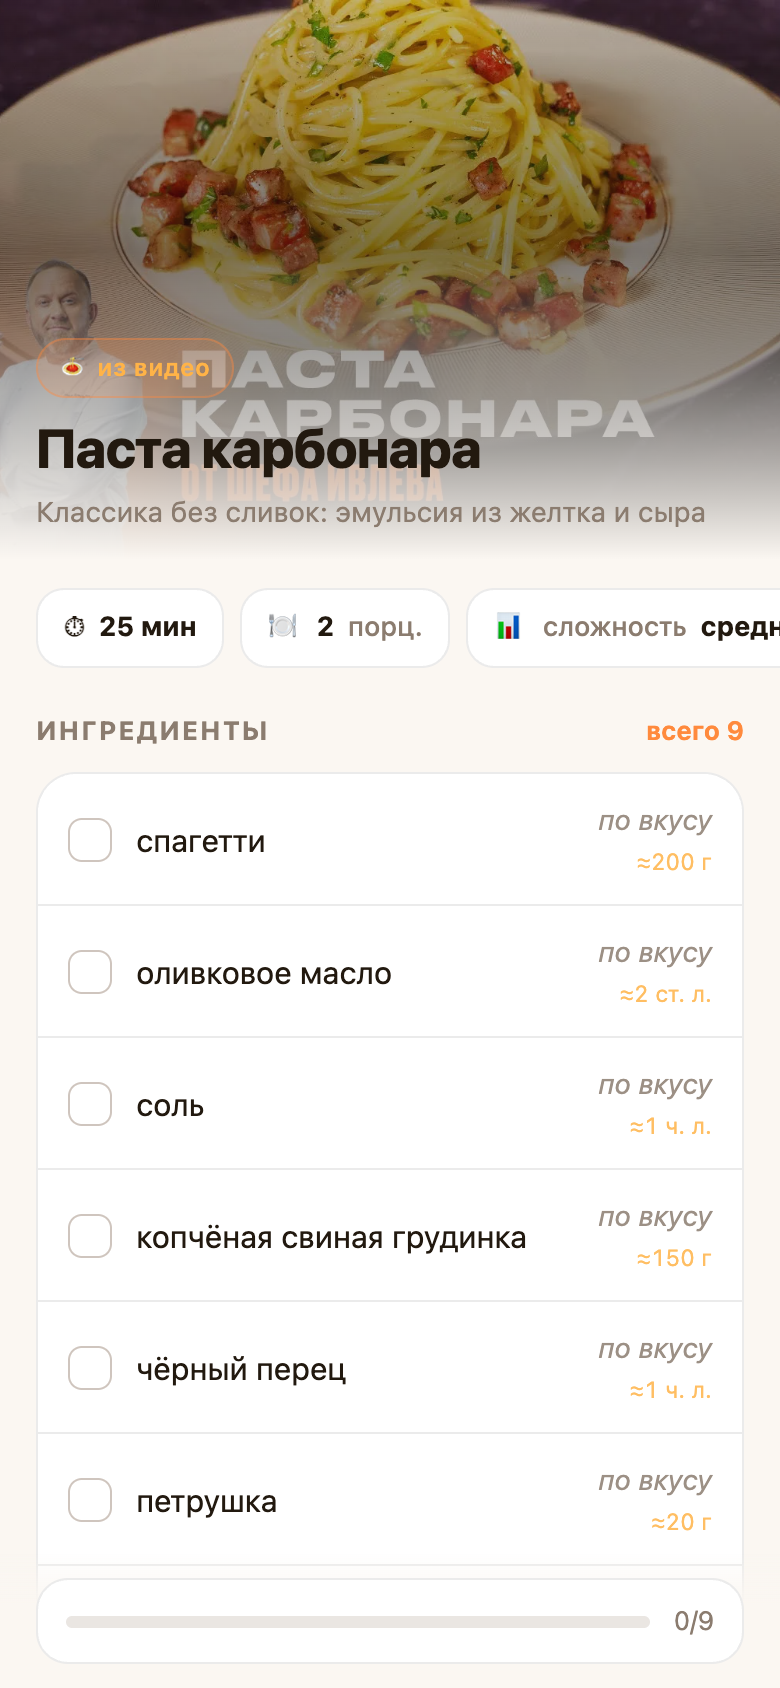
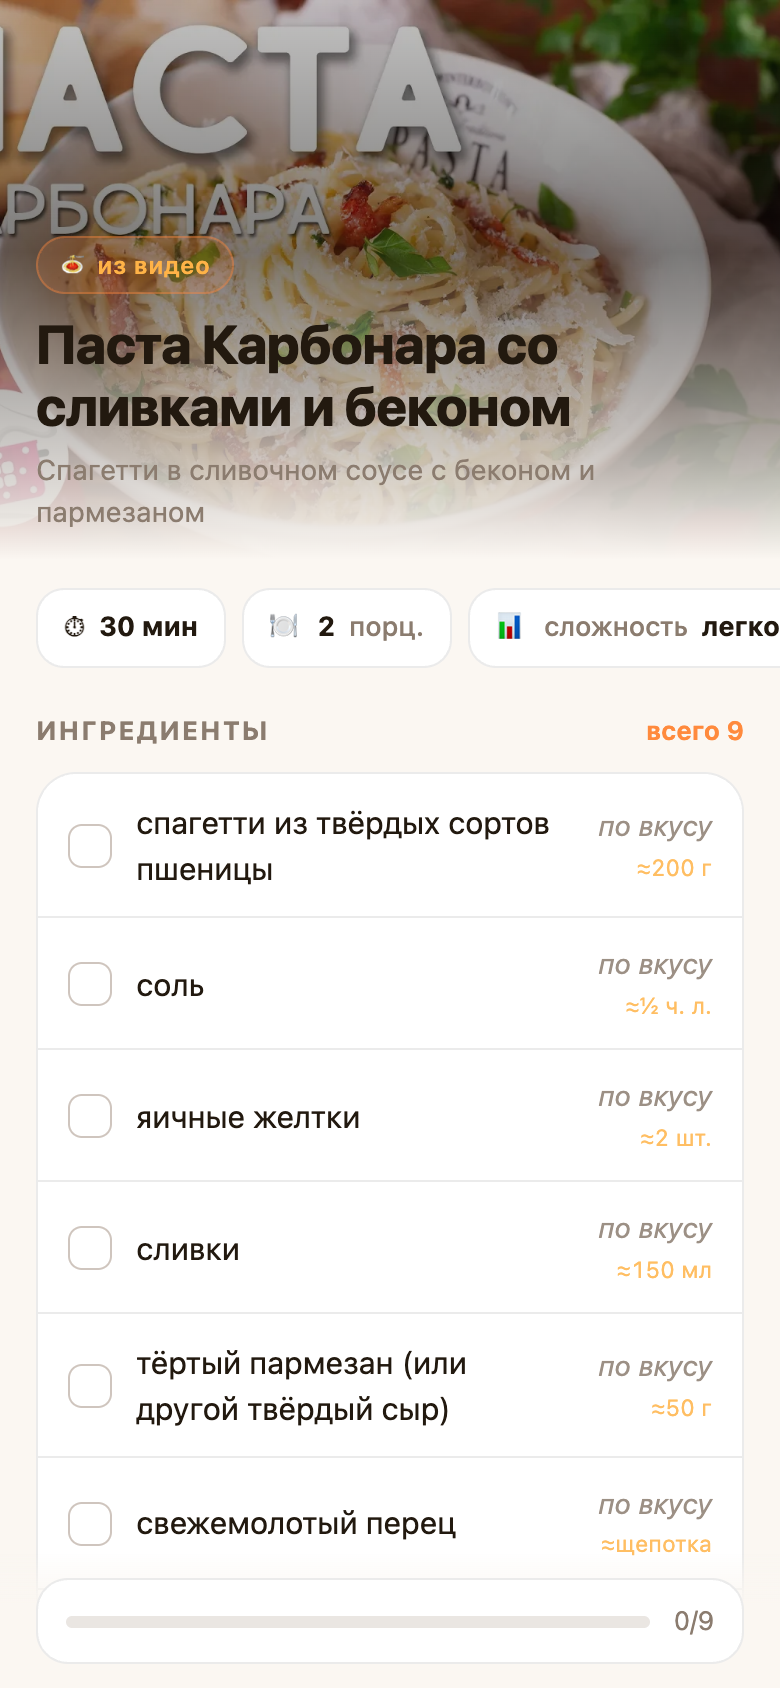
tunnel + one-command run, fix recipe path in webapp

diff --git a/app/webapp/index.html b/app/webapp/index.html
@@ -251,11 +251,13 @@ function updateBar() {
   $('#ingCount').textContent = done ? `готово ${done}` : `всего ${total}`;
 }
 
-/* загрузка данных: сначала с сервера, потом из встроенного JSON (демо без сети) */
+/* загрузка данных: id берём из адреса /r/<id>, иначе — последний рецепт */
 (async () => {
+  const m = location.pathname.match(/^\/r\/([\w-]+)/);
+  const src = m ? `/r/${m[1]}/recipe.json` : '/recipe.json';
   try {
-    const res = await fetch('./recipe.json', { cache: 'no-store' });
-    if (!res.ok) throw new Error(res.status);
+    const res = await fetch(src, { cache: 'no-store' });
+    if (!res.ok) throw new Error('HTTP ' + res.status);
     render(await res.json());
   } catch (err) {
     if (window.__DEMO_RECIPE__) return render(window.__DEMO_RECIPE__);

diff --git a/app/bot.py b/app/bot.py
@@ -28,7 +28,7 @@ from aiogram.types import (
     WebAppInfo,
 )
 
-API = os.getenv("RECIPE_API", "http://127.0.0.1:8787")     # локальный сервер пайплайна
+API = os.getenv("RECIPE_API", "http://127.0.0.1:8891")     # локальный сервер пайплайна
 WEBAPP_URL = os.getenv("WEBAPP_URL", "").rstrip("/")
 
 LINK_RE = re.compile(

diff --git a/app/server.py b/app/server.py
@@ -123,7 +123,7 @@ class Handler(BaseHTTPRequestHandler):
 
 def main():
     ap = argparse.ArgumentParser()
-    ap.add_argument("--port", type=int, default=8787)
+    ap.add_argument("--port", type=int, default=8891)
     ap.add_argument("--host", default="127.0.0.1")
     args = ap.parse_args()
 

diff --git a/README.md b/README.md
@@ -12,24 +12,20 @@
 
 ```bash
 cd ~/workspace/recipe-bot
-
-# 1. сервер (в нём весь пайплайн) — держать открытым
-~/.hermes/installs/702cdcf0f0d70170/environments/ed360d58e0d04daabcb8285d84e5c396/venv/bin/python app/server.py
-
-# 2. бот (второе окно терминала)
-.venv/bin/python app/bot.py
+./run.sh
 ```
 
-Мини-апп без Телеграма: открой http://127.0.0.1:8787
+Одна команда поднимает всё: сервер, туннель и бота. Ctrl+C — остановить всё разом.
+
+Мини-апп без Телеграма: открой http://127.0.0.1:8891
 
 ## Что нужно от тебя
 
-1. **Токен бота.** @BotFather → `/newbot` → скопировать токен в `.env` как `TELEGRAM_BOT_TOKEN=...`
-2. **HTTPS.** Мини-апп в Телеграме открывается только по https, локальный http он не пустит.
-   Нужен туннель: `brew install cloudflared` (~30 МБ), потом
-   `cloudflared tunnel --url http://127.0.0.1:8787` — он выдаст `https://что-то.trycloudflare.com`,
-   этот адрес идёт в `.env` как `WEBAPP_URL`.
-   Без туннеля бот тоже работает — просто присылает рецепт текстом, без красивой карточки.
+1. **Токен бота.** @BotFather → `/newbot` → токен в `.env` как `TELEGRAM_BOT_TOKEN=...` ✅ уже есть
+2. **HTTPS.** Мини-апп в Телеграме открывается только по https. ✅ решено через cloudflared:
+   `run.sh` сам поднимает туннель и подставляет адрес в бота. Адрес меняется при каждом
+   запуске — поэтому не хардкоди его вручную.
+   Без туннеля бот тоже работает — просто присылает рецепт текстом.
 
 ## Как это устроено
 
